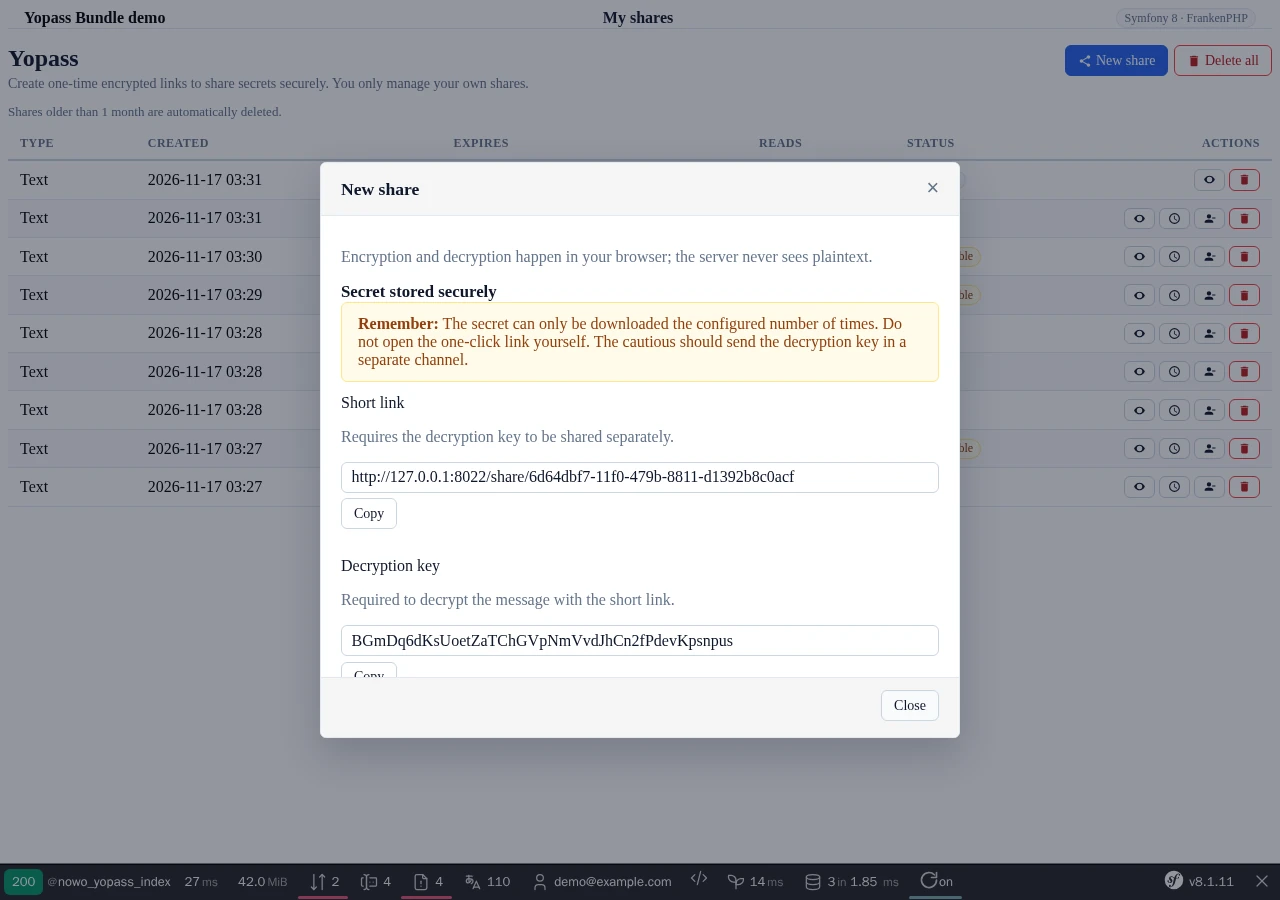
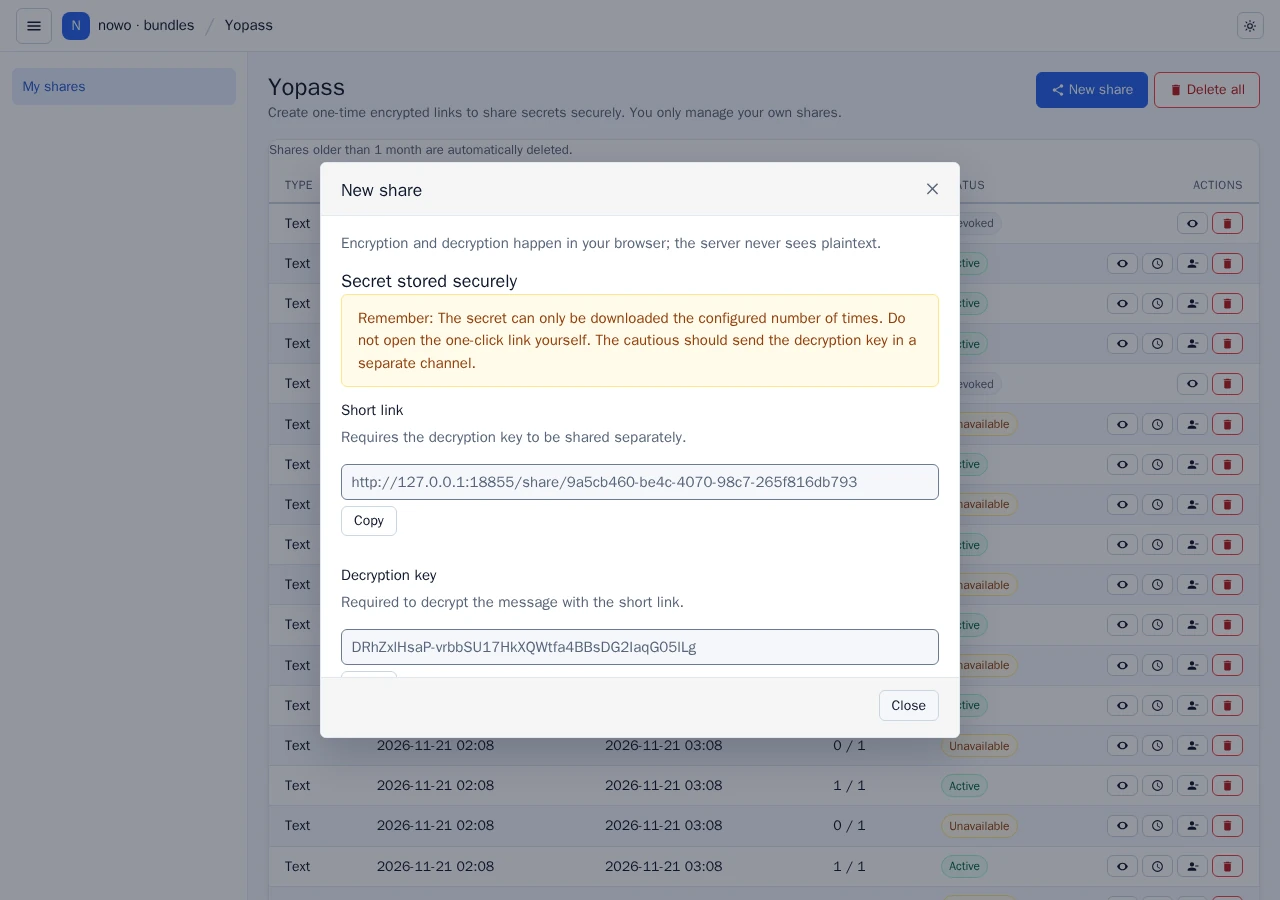
chore(demo): run the demo in UiKit's demo platform shell (#130)

diff --git a/demo/symfony8/e2e/tests/demo-platform.spec.ts b/demo/symfony8/e2e/tests/demo-platform.spec.ts
@@ -1,0 +1,200 @@
+import { test, expect, type Page } from '@playwright/test';
+import AxeBuilder from '@axe-core/playwright';
+
+/**
+ * UiKit demo platform shell (REQ-DEMO-014): layout grammar, demo styles, host theme tokens, framework classes, the
+ * closed phone drawer, 44 px touch targets and input borders on every demo page, plus axe (wcag2a / 2aa / 21a / 21aa,
+ * serious + critical = 0) in light and dark, desktop and phone, and the keyboard drawer pass.
+ */
+type Theme = 'light' | 'dark';
+type PageEntry = string | ((page: Page) => Promise<string>);
+
+import { createShare } from './helpers';
+
+async function prepare(_page: Page): Promise<void> {}
+
+/** The manage page with one share in the list. */
+async function manageWithShare(page: Page): Promise<string> {
+  await createShare(page);
+  return '/tools/yopass';
+}
+
+/** The public reveal page of a fresh share (before revealing it). */
+async function publicShare(page: Page): Promise<string> {
+  return createShare(page);
+}
+
+
+async function setTheme(page: Page, theme: Theme): Promise<void> {
+  await page.evaluate((t) => {
+    document.documentElement.setAttribute('data-theme', t);
+    document.documentElement.setAttribute('data-bs-theme', t);
+  }, theme);
+}
+
+async function axe(page: Page): Promise<string[]> {
+  const result = await new AxeBuilder({ page }).withTags(['wcag2a', 'wcag2aa', 'wcag21a', 'wcag21aa']).exclude('.sf-toolbar').analyze();
+  return result.violations
+    .filter((v) => v.impact === 'serious' || v.impact === 'critical')
+    .map((v) => `${v.id}: ${v.nodes.map((n) => n.target.join(' ')).join(', ')}`);
+}
+
+/** The demo layout + style rules (docs/USAGE.md "Demo platform shell"; same function as the rollout brief's spec): layout grammar,
+ * no demo styles / host tokens / framework classes, closed drawer inert, 44 px targets on coarse pointers, input borders 3:1. */
+/* eslint-disable */
+// prettier-ignore
+function demoPlatformRules(): string[] {
+  const issues = [];
+  const main = document.querySelector('#nowo-ui-content');
+  const shell = document.querySelector('[data-testid="demo-platform"]');
+  if (!main || !shell) return ['no-demo-platform-shell'];
+  const visible = (el) => !!(el.offsetWidth || el.offsetHeight || el.getClientRects().length);
+  const carded = (el) => el.closest('.nowo-ui-card, [data-nowo-ui-region="table"], [data-nowo-ui-region="form"], .nowo-ui-form-panel, dialog');
+  const skip = (el) => el.closest('dialog, [data-nowo-ui-region="filters"], .nowo-ui-filters, .nowo-ui-page-header');
+
+  // Layout grammar.
+  main.querySelectorAll('table').forEach((t) => { if (!carded(t)) issues.push('table-outside-card'); });
+  main.querySelectorAll('form').forEach((f) => {
+    if (f.querySelector('input:not([type="hidden"]), select, textarea') && !carded(f) && !skip(f) && !f.closest('table')) issues.push('form-outside-card');
+  });
+  const primaries = [...main.querySelectorAll('.nowo-ui-btn--primary')].filter((b) => visible(b) && !b.closest('table, dialog, [data-nowo-ui-region="filters"], .nowo-ui-filters, form'));
+  if (primaries.length > 1) issues.push(`primary-buttons:${primaries.length}`);
+  const header = main.querySelector('.nowo-ui-page-header');
+  const flashes = main.querySelector('.nowo-ui-flashes');
+  if (header && flashes && (flashes.compareDocumentPosition(header) & Node.DOCUMENT_POSITION_FOLLOWING)) issues.push('flashes-before-page-header');
+  if (document.documentElement.scrollWidth > document.documentElement.clientWidth + 1) issues.push('page-scrolls-horizontally');
+
+  // Styles: no demo styles, no host theme tokens, no CDN / foreign stylesheet, no framework classes inside the shell.
+  document.querySelectorAll('style').forEach((s) => {
+    if (s.matches('[data-nowo-ui-theme-tokens], [data-nowo-ui-appearance]')) { issues.push('host-theme-tokens'); return; }
+    if (!/sf-toolbar|sfwdt|sf-minitoolbar|sf-display/.test(s.textContent || '') && !s.closest('[id^="sfwdt"], .sf-toolbar')) issues.push('style-element');
+  });
+  document.querySelectorAll('link[rel="stylesheet"]').forEach((l) => {
+    const path = new URL(l.href, location.href).pathname;
+    if (!path.startsWith('/bundles/') && !path.startsWith('/_wdt/') && !path.startsWith('/_profiler/')) issues.push(`stylesheet:${path}`);
+  });
+  const framework = /^(acme-.*|nav-tabs|nav-link|nav-item|alert|alert-.*|form-check.*|form-control|form-select|form-label|btn|btn-.*|card|card-.*|badge|row|col|col-.*|table|table-.*)$/;
+  shell.querySelectorAll('[class]').forEach((el) => {
+    for (const c of el.classList) { if (framework.test(c)) { issues.push(`framework-class:${c}`); break; } }
+  });
+
+  // Drawer: below 901 px a closed drawer is inert and the burger says so.
+  const aside = shell.querySelector('[data-nowo-ui-aside]');
+  if (aside && window.innerWidth < 901) {
+    const open = shell.classList.contains('is-aside-open-mobile');
+    if (!open && !aside.hasAttribute('inert')) issues.push('drawer-not-inert');
+    shell.querySelectorAll('[data-nowo-ui-burger]').forEach((b) => {
+      if (visible(b) && b.getAttribute('aria-expanded') !== (open ? 'true' : 'false')) issues.push('burger-state');
+    });
+  }
+
+  // Touch: 44 px targets on coarse pointers (checkbox / radio 24 px, their label carries the 44 px row).
+  if (window.matchMedia('(pointer: coarse)').matches) {
+    const controls = [...shell.querySelectorAll('.nowo-ui-btn, button, summary, input:not([type="hidden"]), select, textarea, [role="tab"], .nowo-ui-aside__link, .nowo-ui-demo-platform__locale')]
+      .filter((el) => visible(el) && !el.closest('[inert], table, .ts-control'));
+    for (const el of controls) {
+      const r = el.getBoundingClientRect();
+      const small = el.matches('input[type="checkbox"], input[type="radio"]') ? r.height < 24 || r.width < 24 : r.height < 43.5;
+      if (small) { issues.push(`target-under-44px:${(el.className && String(el.className).split(' ')[0]) || el.tagName.toLowerCase()}`); }
+    }
+  }
+
+  // Inputs: boundary 3:1 or more against the surface behind them (WCAG 1.4.11).
+  const rgb = (c) => { const m = c.match(/[\d.]+/g); return m ? m.slice(0, 4).map(Number) : null; };
+  const lum = (c) => { const v = c.slice(0, 3).map((x) => { const s = x / 255; return s <= 0.03928 ? s / 12.92 : ((s + 0.055) / 1.055) ** 2.4; }); return 0.2126 * v[0] + 0.7152 * v[1] + 0.0722 * v[2]; };
+  const bgOf = (el) => { for (let n = el.parentElement; n; n = n.parentElement) { const c = rgb(getComputedStyle(n).backgroundColor); if (c && (c.length < 4 || c[3] > 0)) return c; } return [255, 255, 255]; };
+  shell.querySelectorAll('input:not([type="hidden"], [type="checkbox"], [type="radio"]), select, textarea').forEach((el) => {
+    if (!visible(el) || el.closest('[inert]')) return;
+    const border = rgb(getComputedStyle(el).borderTopColor);
+    if (!border) return;
+    const a = lum(border); const b = lum(bgOf(el));
+    if ((Math.max(a, b) + 0.05) / (Math.min(a, b) + 0.05) < 3) issues.push(`input-border-under-3:1:${el.id || el.name || el.tagName.toLowerCase()}`);
+  });
+
+  return [...new Set(issues)];
+}
+
+
+const PAGES: PageEntry[] = ['/tools/yopass', manageWithShare, publicShare];
+
+const BUNDLE_OWNED: Array<{ path: RegExp; rule: RegExp }> = [
+  { path: /^\/share\//, rule: /^scrollable-region-focusable: pre/ },
+];
+
+/** Findings on a bundle's own page are reported as bundle-owned (not patched in the demo): they are filtered here, by path and rule. */
+function demo(url: string, issues: string[]): string[] {
+  const path = new URL(url).pathname;
+  return issues.filter((issue) => !BUNDLE_OWNED.some((o) => o.path.test(path) && o.rule.test(issue)));
+}
+
+async function resolvePath(page: Page, entry: PageEntry): Promise<string> {
+  return typeof entry === 'function' ? entry(page) : entry;
+}
+
+test.describe('demo platform rules', () => {
+  // Device-emulating projects (phone / iphone ...) set their own context: the viewport blocks below do it explicitly.
+  test.beforeEach(async ({ page }, testInfo) => {
+    test.skip(/phone/i.test(testInfo.project.name), 'viewport blocks set their own context');
+    // The Symfony toolbar is dev chrome, never part of the rules or axe runs.
+    await page.addInitScript(() => {
+      document.addEventListener('DOMContentLoaded', () => {
+        const s = document.createElement('style');
+        s.textContent = '.sf-toolbar,.sf-minitoolbar,[id^="sfwdt"]{display:none!important}';
+        document.head.appendChild(s);
+      });
+    });
+  });
+
+  test('desktop 1440 px', async ({ page }) => {
+    await page.setViewportSize({ width: 1440, height: 900 });
+    await prepare(page);
+    for (const path of PAGES) {
+      await page.goto(await resolvePath(page, path));
+      expect(demo(page.url(), await page.evaluate(demoPlatformRules)), page.url()).toEqual([]);
+    }
+  });
+
+  test.describe('phone 390 px, touch', () => {
+    test.use({ viewport: { width: 390, height: 844 }, isMobile: true, hasTouch: true });
+
+    test('rules on every page', async ({ page }) => {
+      await prepare(page);
+      for (const path of PAGES) {
+        await page.goto(await resolvePath(page, path));
+        expect(demo(page.url(), await page.evaluate(demoPlatformRules)), page.url()).toEqual([]);
+      }
+    });
+
+    test('keyboard drawer pass', async ({ page }) => {
+      await prepare(page);
+      await page.goto(await resolvePath(page, PAGES[0]));
+      const aside = page.locator('[data-nowo-ui-aside]');
+      await expect(aside).toHaveAttribute('inert', '');
+      const burger = page.locator('[data-nowo-ui-burger]').first();
+      await expect(burger).toHaveAttribute('aria-expanded', 'false');
+      await burger.focus();
+      await page.keyboard.press('Enter');
+      await expect(page.getByTestId('demo-platform')).toHaveClass(/is-aside-open-mobile/);
+      await expect(page.locator('[data-nowo-ui-aside] :focus')).toHaveCount(1);
+      await expect(page.locator('.nowo-ui-main')).toHaveAttribute('inert', '');
+      await expect(page.locator('html')).toHaveClass(/nowo-ui-drawer-open/);
+      await page.keyboard.press('Escape');
+      await expect(burger).toBeFocused();
+      await expect(aside).toHaveAttribute('inert', '');
+    });
+  });
+
+  for (const theme of ['light', 'dark'] as Theme[]) {
+    for (const [name, width] of [['desktop', 1440], ['phone', 390]] as const) {
+      test(`axe clean: ${name}, ${theme}`, async ({ page }) => {
+        await page.setViewportSize({ width, height: 900 });
+        await prepare(page);
+        for (const path of PAGES) {
+          await page.goto(await resolvePath(page, path));
+          await setTheme(page, theme);
+          expect(demo(page.url(), await axe(page)), page.url()).toEqual([]);
+        }
+      });
+    }
+  }
+});

diff --git a/demo/symfony8/e2e/tests/helpers.ts b/demo/symfony8/e2e/tests/helpers.ts
@@ -3,13 +3,9 @@ import { expect, type Page } from '@playwright/test';
 /** Obviously fake demo text — never put real credentials in e2e tests or screenshots. */
 export const DEMO_SECRET = 'Demo only: Wi-Fi guest code is not-a-real-secret-42';
 
-/** Wait for the Symfony WebProfiler toolbar (dev) so it is part of the capture. */
+/** Hide the Symfony WebProfiler toolbar (dev chrome) so it never appears in a capture. */
 export async function waitForToolbar(page: Page): Promise<void> {
-  const toolbar = page.locator('.sf-toolbar');
-  if (await toolbar.count()) {
-    await expect(toolbar.locator('.sf-toolbar-block').first()).toBeVisible({ timeout: 15_000 });
-    await page.waitForTimeout(400);
-  }
+  await page.addStyleTag({ content: '.sf-toolbar,.sf-minitoolbar,[id^="sfwdt"]{display:none!important}' });
 }
 
 /** Open the create dialog (web_ui.create_mode: dialog) from the header or the empty state. */

diff --git a/demo/symfony8/e2e/tests/screenshots.spec.ts b/demo/symfony8/e2e/tests/screenshots.spec.ts
@@ -4,8 +4,8 @@ import { resolve } from 'node:path';
 import { createShare, revealShare, waitForToolbar } from './helpers';
 
 /**
- * REQ-DEMO-013 — README screenshots (captured as PNG, converted to WebP by scripts/to-webp.mjs): demo masthead +
- * bundle UI in a useful state + Symfony WebProfiler toolbar. Fake demo text only.
+ * REQ-DEMO-013 — README screenshots (captured as PNG, converted to WebP by scripts/to-webp.mjs): demo platform shell +
+ * bundle UI in a useful state (the Symfony WebProfiler toolbar is hidden). Fake demo text only.
  */
 const outDir = process.env.SCREENSHOT_DIR
   ? resolve(process.env.SCREENSHOT_DIR)

diff --git a/docs/CHANGELOG.md b/docs/CHANGELOG.md
@@ -71,6 +71,10 @@ and this project adheres to [Semantic Versioning](https://semver.org/spec/v2.0.0
 
 ## [Unreleased]
 
+### Changed
+
+- Demo: runs in UiKit's demo platform shell (`nowo-tech/ui-kit-bundle` ^2.60); the demo's own masthead and layout bridges are gone and the manage and public reveal pages render inside the shell. Demo only, no bundle change.
+
 ## [2.0.1] - 2026-11-21
 
 ### Fixed
